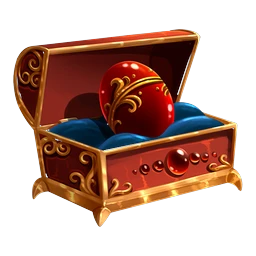
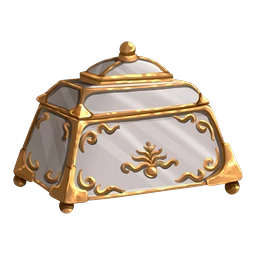
Round 16: Dragon Empire 4096 and Neon Nights get their own symbol sets
Claude-Session: https://claude.ai/code/session_01LcC21fng844zb5K8BRYuAt

diff --git a/LuckyVault/public/sw.js b/LuckyVault/public/sw.js
@@ -1,5 +1,5 @@
 // Offline cache for the game client (API calls always go to the network).
-const V = 'lv-v71';
+const V = 'lv-v72';
 const FILES = ['./', './index.html', './config.js', './manifest.webmanifest', './js/slots-engine.js', './js/catalog.js', './js/tables-engine.js', './js/tables-ui.js', './js/social.js', './js/fx.js', './js/feat-ui.js', './js/hov-ui.js', './js/roadmap.js', './js/vegas.js', './js/rules.js', './js/onboard.js', './js/friends-ui.js', './js/rg.js', './js/support-ui.js', './js/replay.js', './js/fx2.js', './js/i18n.js', './js/iap.js', './assets/fonts/Anton.woff2', './assets/fonts/Cinzel.woff2', './icons/icon-192.png', './icons/icon-512.png'];
 self.addEventListener('install', e => { e.waitUntil(caches.open(V).then(c => c.addAll(FILES)).then(() => self.skipWaiting())); });
 self.addEventListener('activate', e => { e.waitUntil(caches.keys().then(ks => Promise.all(ks.filter(k => k !== V).map(k => caches.delete(k)))).then(() => self.clients.claim())); });

diff --git a/LuckyVault/tools/build_skins.py b/LuckyVault/tools/build_skins.py
@@ -290,3 +290,4 @@ json.dump(man, open(OUT + '/manifest.json', 'w'), indent=1, ensure_ascii=False)
 # fruit slots replaced in order from fruits-berries-vegetables-icon-512x512-set:
 #  hot-chilli-7s 20 chilli,6 pepper,7 tomato,11 mango,14 papaya,30 cherries,8 pumpkin | gold-bar-7s viking 3 ingot (gold colourised),29,27,18,45,35,32
 #  lucky-clover-7s loot 9 clover,43,17,50,4,24,9 | neon-retro-7s 19,39,31,46,44,10,2 | liberty-bells 15,30,38,16,12,39,26 | fortune-wheel-deluxe 21,35,13,11,8,45,29
+# round 16: dragon-empire-4096 <- dragon loot 3,32,31,36,34,28,43,49,12,W47,S45 ; neon-nights <- gems 20,3,92,78,81,82,61,76,26,W64,S30 (both were 11/11 identical to golden-dragon / star-gems)

diff --git a/LuckyVault/CHANGELOG.md b/LuckyVault/CHANGELOG.md
@@ -374,3 +374,6 @@ Platform release: everything on the "do all of these" list except the public dep
 
 ## Round 15 (18:35) — Classic 7s group de-duplicated
 - 6 games (Hot Chilli 7s, Gold Bar 7s, Lucky Clover 7s, Neon Retro 7s, Liberty Bells, Fortune Wheel Deluxe) shared one identical 11-symbol set. Each now has its own colour 7/BAR and its own painted fruit set (CraftPix 512px fruits; clover, gold ingot) + new covers. sw lv-v71. Tests 90/90.
+
+## Round 16 (18:25) — Dragon Empire 4096 & Neon Nights own sets
+- Both were 11/11 identical to Golden Dragon / Star Gems. New painted symbol sets + covers. sw lv-v72. Tests 90/90.
